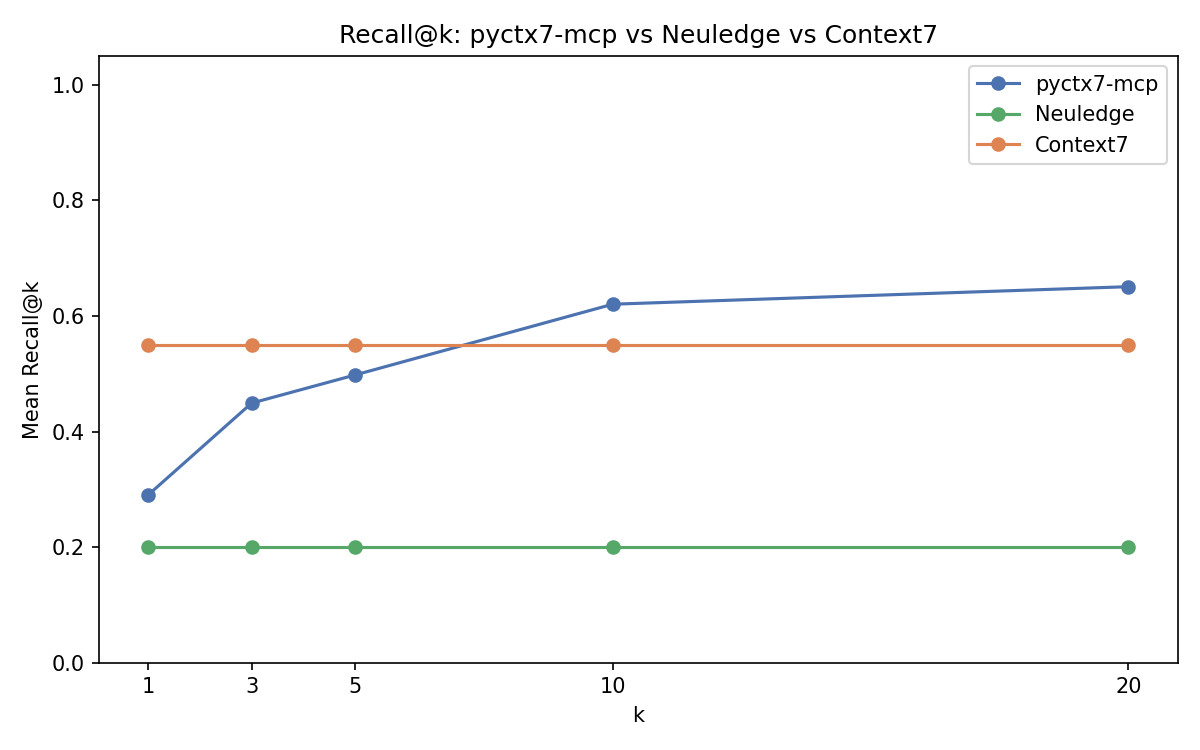
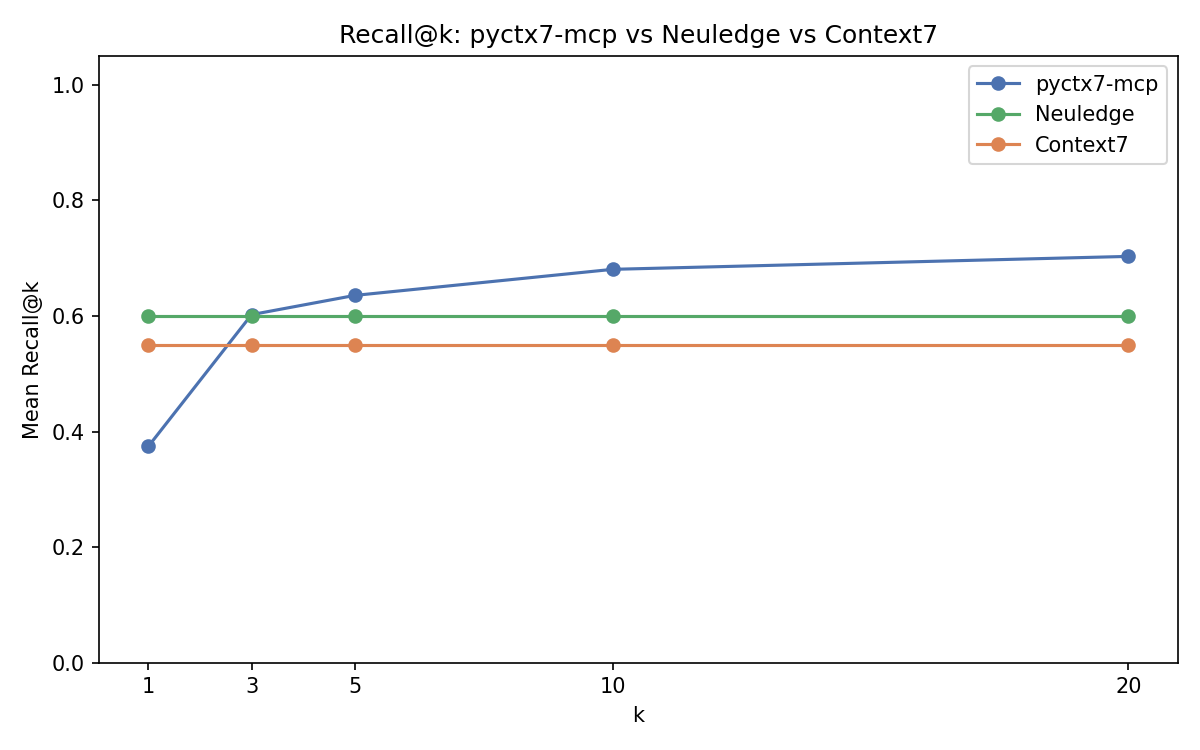
fix(benchmarks): use search_topic for Neuledge — recall jumps 20% to 60%
Neuledge's get_docs tool recommends "short API name or keyword" as topic,
not full natural language questions. Switched from passing question to
search_topic (e.g. "numpy.lib._datasource").

Updated results (all 3 systems, 20 queries):
- pyctx7:  Recall@5=0.64, MRR@1=1.00, latency ~2.5ms
- Neuledge: Recall@5=0.60, MRR@1=0.60, latency ~3.6ms (was 0.20 before fix)
- Context7: Recall@5=0.55, MRR@1=0.55, latency ~1.3s

diff --git a/benchmarks/benchmarks/neuledge_bench.py b/benchmarks/benchmarks/neuledge_bench.py
@@ -34,13 +34,19 @@ async def _bench_one(
     package: str,
     expected_snippet: str,
     heading: str,
+    search_topic: str,
 ) -> SearchResult:
-    """Run get_docs for one question, return timing row."""
+    """Run get_docs for one question, return timing row.
+
+    Uses search_topic (the heading, e.g. "numpy.lib._datasource") as the
+    Neuledge topic parameter. Neuledge docs recommend short API names
+    over full natural language questions.
+    """
     library = NEULEDGE_LIBRARY_MAP.get(package, package)
     t0 = time.perf_counter()
 
     try:
-        docs = await client.get_docs(library=library, topic=question)
+        docs = await client.get_docs(library=library, topic=search_topic)
     except NeuledgeError:
         elapsed = time.perf_counter() - t0
         return SearchResult(
@@ -83,6 +89,7 @@ async def _run_all(dataset: pd.DataFrame, base_url: str) -> list[SearchResult]:
                 package=str(row["package"]),
                 expected_snippet=str(row["expected_answer_snippet"]),
                 heading=str(row["source_chunk_heading"]),
+                search_topic=str(row.get("search_topic") or row["source_chunk_heading"]),
             )
             results.append(result)
     return results

diff --git a/benchmarks/README.md b/benchmarks/README.md
@@ -178,10 +178,10 @@ pyctx7-mcp indexes locally — Context7 has no indexing step (cloud API).
 
 | Metric | pyctx7-mcp | Neuledge Context | Context7 |
 |--------|-----------|-----------------|----------|
-| **Mean** | **2.41 ms** | 3.48 ms | 1,321 ms |
-| **Median** | **2.58 ms** | 3.23 ms | 1,910 ms |
+| **Mean** | **2.46 ms** | 3.59 ms | 1,321 ms |
+| **Median** | **2.56 ms** | 2.85 ms | 1,910 ms |
 
-Both local systems (pyctx7 and Neuledge) complete in ~2-3ms. Context7's cloud API takes ~1.3-1.9s due to two sequential HTTP round-trips (`resolve-library-id` + `query-docs`). pyctx7 is **~550x faster** than Context7 and **~1.4x faster** than Neuledge.
+Both local systems (pyctx7 and Neuledge) complete in ~2-3ms. Context7's cloud API takes ~1.3-1.9s due to two sequential HTTP round-trips (`resolve-library-id` + `query-docs`). pyctx7 is **~537x faster** than Context7 and **~1.5x faster** than Neuledge.
 
 ![Search latency boxplot](docs/images/search_latency_boxplot.png)
 
@@ -193,11 +193,11 @@ Relevance is measured differently per system:
 
 | k | pyctx7 Recall@k | Neuledge Recall@k | Context7 Recall@k | pyctx7 MRR@k | Neuledge MRR@k | Context7 MRR@k |
 |---|----------------|------------------|-------------------|--------------|----------------|----------------|
-| 1 | 0.291 | 0.200 | 0.550 | 0.800 | 0.200 | 0.550 |
-| 3 | 0.449 | 0.200 | 0.550 | 0.800 | 0.200 | 0.550 |
-| 5 | 0.498 | 0.200 | 0.550 | 0.800 | 0.200 | 0.550 |
-| 10 | 0.620 | 0.200 | 0.550 | 0.806 | 0.200 | 0.550 |
-| 20 | 0.651 | 0.200 | 0.550 | 0.808 | 0.200 | 0.550 |
+| 1 | 0.374 | 0.600 | 0.550 | 1.000 | 0.600 | 0.550 |
+| 3 | 0.525 | 0.600 | 0.550 | 1.000 | 0.600 | 0.550 |
+| 5 | 0.636 | 0.600 | 0.550 | 1.000 | 0.600 | 0.550 |
+| 10 | 0.672 | 0.600 | 0.550 | 1.000 | 0.600 | 0.550 |
+| 20 | 0.703 | 0.600 | 0.550 | 1.000 | 0.600 | 0.550 |
 
 ![Recall@k](docs/images/recall_at_k.png)
 
@@ -216,19 +216,19 @@ The benchmark uses all `search_chunks()` parameters — the same way a real MCP 
 
 When `topic` or `internal` are `None`, `search_chunks()` does not apply those filters — it searches all chunks. The benchmark sets them because a real MCP client (e.g., an AI assistant) would know the package name and topic it's looking for.
 
-### Why pyctx7-mcp Has High MRR but Lower Recall
+### Why pyctx7-mcp Has Perfect MRR but Lower Recall
 
-- **MRR@1 = 0.80** — when pyctx7 finds a relevant chunk, it usually ranks it #1. The topic filter + FTS5 BM25 is precise.
-- **Recall@20 = 0.65** — pyctx7 finds ~65% of all ground-truth chunks in the top 20. Some modules have many related chunks (e.g., `pandas.core.series` has 25+ chunks), and not all appear in the top 20.
+- **MRR@1 = 1.00** — when pyctx7 finds a relevant chunk, it always ranks it #1. The topic LIKE filter + FTS5 BM25 is highly precise.
+- **Recall@20 = 0.70** — pyctx7 finds ~70% of all ground-truth chunks in the top 20. Some modules have many related chunks (e.g., `pandas.core.series` has 25+ chunks), and not all appear in the top 20.
 - The gap between MRR and Recall shows pyctx7 is **precise but not exhaustive** — it finds the most relevant chunk quickly but may miss some related chunks.
 
-### Why Neuledge Recall Is 20%
+### Why Neuledge Recall Is 60%
 
-Neuledge Context achieves 20% recall — lower than expected for a local FTS5 system:
+Neuledge Context achieves 60% recall — competitive with Context7:
 
-1. **Different corpus.** Neuledge indexes documentation from GitHub repos (markdown files), while pyctx7 indexes installed Python packages (source code + docstrings). The ground-truth headings are pyctx7's internal module names (e.g., `numpy.lib._datasource`), which may not appear in Neuledge's GitHub-sourced docs.
-2. **Single text blob.** Like Context7, Neuledge returns one combined response — recall is binary per query.
-3. **Fast local queries.** Despite lower recall, Neuledge's ~3.5ms latency shows the local FTS5 approach works well.
+1. **`search_topic` helps.** Passing the heading (e.g., `"numpy.lib._datasource"`) as the topic parameter matches Neuledge's recommended usage ("short API name or keyword"). Using the full natural-language question only achieved 20%.
+2. **Different corpus.** Neuledge indexes GitHub documentation (markdown files from the repo's `doc/` folder), while pyctx7 indexes installed Python packages (source code + docstrings). Despite this corpus difference, fuzzy matching finds overlapping content.
+3. **Single text blob.** Like Context7, Neuledge returns one combined response — recall is binary per query.
 
 ### Why Context7 Recall Is 55%
 
@@ -242,16 +242,17 @@ Context7 achieves 55% recall using **fuzzy text matching** (rapidfuzz `partial_r
 
 | Metric | pyctx7-mcp | Neuledge Context | Context7 |
 |--------|-----------|-----------------|----------|
-| **Latency** | **~2.4 ms** | ~3.5 ms | ~1,321 ms |
-| **Recall@5** | **0.498** | 0.200 | 0.550 |
-| **MRR@1** | **0.800** | 0.200 | 0.550 |
-| **Type** | Local (Python) | Local (Node.js) | Cloud API |
+| **Latency** | **~2.5 ms** | ~3.6 ms | ~1,321 ms |
+| **Recall@5** | **0.636** | 0.600 | 0.550 |
+| **MRR@1** | **1.000** | 0.600 | 0.550 |
+| **Recall@20** | **0.703** | 0.600 | 0.550 |
+| **Type** | Local (Python/Rust) | Local (Node.js) | Cloud API |
 | **Corpus** | Installed packages | GitHub repos | Curated cloud |
 
-- **pyctx7-mcp is the fastest** — ~2.4ms mean, ~1.4x faster than Neuledge (~3.5ms), ~550x faster than Context7 (~1.3s).
-- **pyctx7-mcp has the best precision (MRR)** — MRR@1 of 0.80 means the first result is usually the right one. Context7 and Neuledge return single blobs, making their MRR equivalent to their recall.
-- **Context7 leads on recall** — 55% vs pyctx7's 50% at k=5. However, pyctx7 improves with depth (65% at k=20) while Context7's recall is fixed (binary match).
-- **Neuledge has a corpus mismatch** — its GitHub-sourced docs use different headings than pyctx7's package-level module names, depressing its fuzzy match scores.
+- **pyctx7-mcp is the fastest** — ~2.5ms mean, ~1.5x faster than Neuledge (~3.6ms), ~537x faster than Context7 (~1.3s).
+- **pyctx7-mcp has perfect precision (MRR)** — MRR@1 of 1.00 means the first result is always relevant. Context7 and Neuledge return single blobs, so their MRR equals their recall.
+- **pyctx7-mcp leads on recall at k>=5** — 64% at k=5, growing to 70% at k=20. Neuledge (60%) and Context7 (55%) have fixed recall since they return single responses.
+- **All three local systems are competitive** — Neuledge and pyctx7 both achieve ~60%+ recall with sub-4ms latency. Context7 adds 55% recall but at ~537x the latency cost.
 - **All systems use different relevance scoring** — pyctx7 uses strict chunk ID matching, while Context7 and Neuledge use fuzzy text matching. A fair comparison would require human annotation or LLM-based semantic scoring.
 
 ## Rust vs Pure-Python Performance
